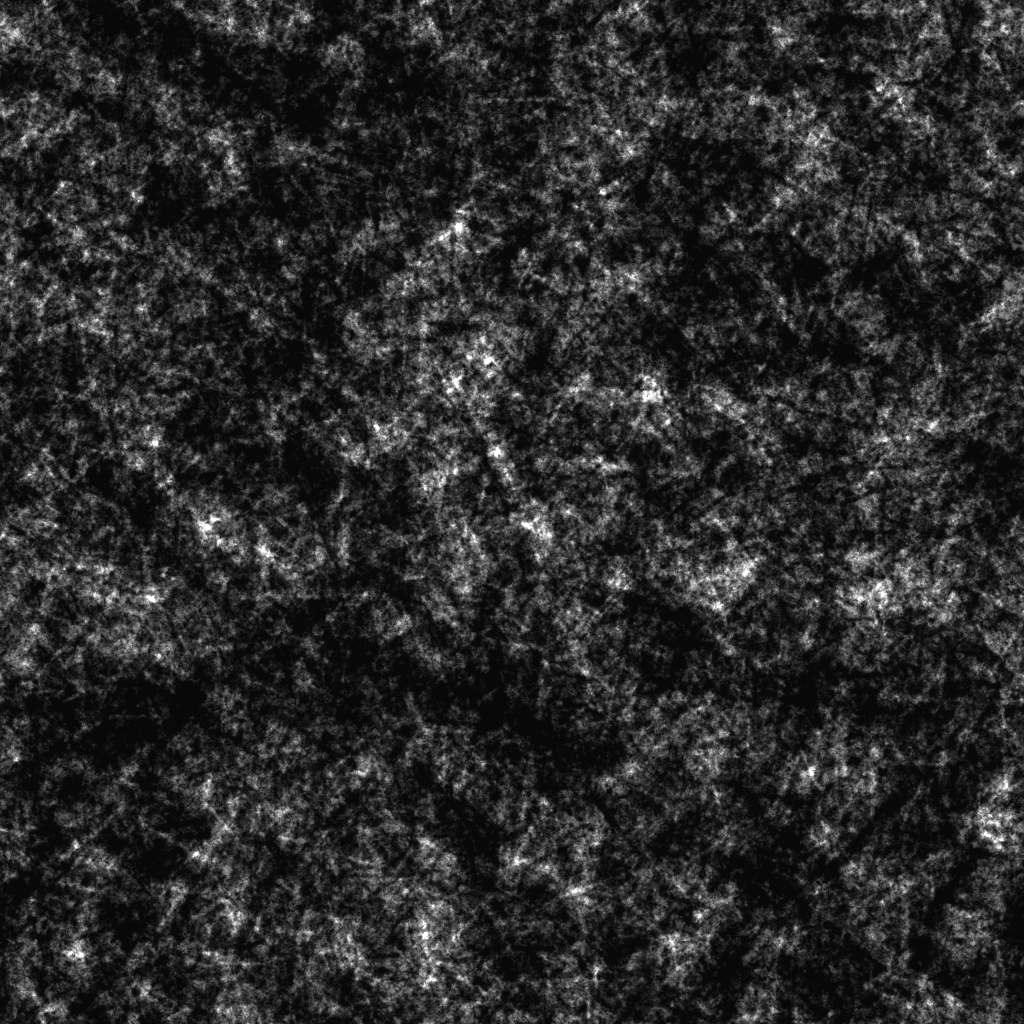
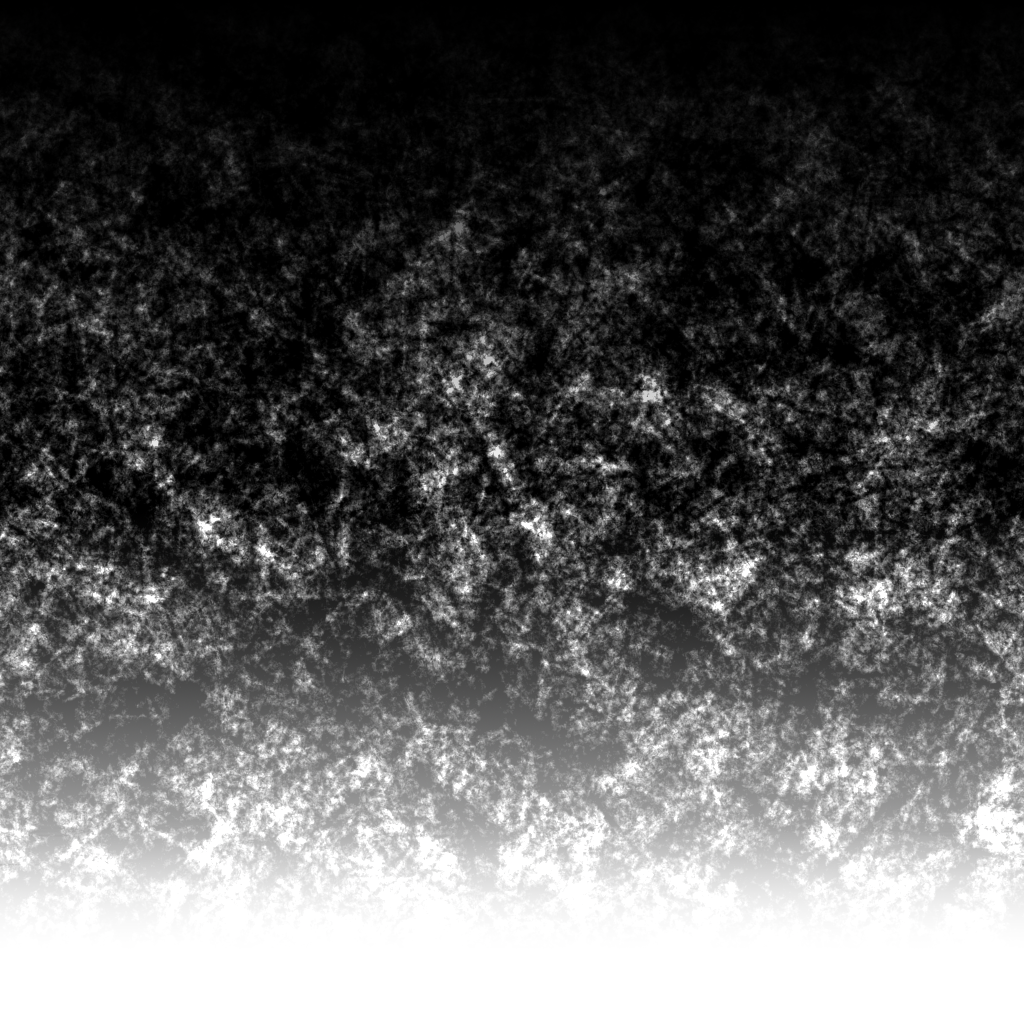
refine env example

diff --git a/source/environmentrenderingpass.ts b/source/environmentrenderingpass.ts
@@ -21,7 +21,7 @@ export class EnvironmentRenderingPass extends Initializable {
 
     protected _environmentTexture: Texture2D | TextureCube | undefined;
     protected _environmentTexture2: Texture2D | undefined;
-    protected _environmenTextureType: EnvironmentTextureType;
+    protected _envTextureType: EnvironmentTextureType;
     protected _camera: Camera | undefined;
 
     protected _cubeMapProgram: Program;
@@ -29,7 +29,13 @@ export class EnvironmentRenderingPass extends Initializable {
     protected _sphereMapProgram: Program;
     protected _polarMapProgram: Program;
 
+    protected _uSkipLod: WebGLUniformLocation;
+
     protected _ndcTriangle: NdcFillingTriangle;
+
+    protected _skipCubeLod = false;
+    protected _altered = true;
+
 
     constructor(context: Context) {
         super();
@@ -67,6 +73,9 @@ export class EnvironmentRenderingPass extends Initializable {
         this._cubeMapProgram.link();
         this._cubeMapProgram.bind();
         gl.uniform1i(this._cubeMapProgram.uniform('u_cubemap'), 0);
+
+        this._uSkipLod = this._cubeMapProgram.uniform('u_skipLod');
+
         this._cubeMapProgram.unbind();
 
         // Equi map program
@@ -121,6 +130,16 @@ export class EnvironmentRenderingPass extends Initializable {
 
     update(): void {
 
+        if (this._altered === false) {
+            return;
+        }
+
+        const gl = this._context.gl;
+
+        this._cubeMapProgram.bind();
+        gl.uniform1i(this._uSkipLod, this._skipCubeLod);
+
+        this._altered = false;
     }
 
     frame(): void {
@@ -132,19 +151,19 @@ export class EnvironmentRenderingPass extends Initializable {
 
         let program = this._cubeMapProgram;
 
-        if (this._environmenTextureType === EnvironmentTextureType.EquirectangularMap) {
+        if (this._envTextureType === EnvironmentTextureType.EquirectangularMap) {
             assert(this._environmentTexture instanceof Texture2D, `Input texture expected to be Texture2D for equirectangular mapping.`);
             this._environmentTexture!.bind(gl.TEXTURE0);
             program = this._equiMapProgram;
-        } else if (this._environmenTextureType === EnvironmentTextureType.SphereMap) {
+        } else if (this._envTextureType === EnvironmentTextureType.SphereMap) {
             assert(this._environmentTexture instanceof Texture2D, `Input texture expected to be Texture2D for sphere mapping.`);
             this._environmentTexture!.bind(gl.TEXTURE0);
             program = this._sphereMapProgram;
-        } else if (this._environmenTextureType === EnvironmentTextureType.CubeMap) {
+        } else if (this._envTextureType === EnvironmentTextureType.CubeMap) {
             assert(this._environmentTexture instanceof TextureCube, `Input texture expected to be a TextureCube for cube mapping.`);
             this._environmentTexture!.bind(gl.TEXTURE0);
             program = this._cubeMapProgram;
-        } else if (this._environmenTextureType === EnvironmentTextureType.PolarMap) {
+        } else if (this._envTextureType === EnvironmentTextureType.PolarMap) {
             assert(this._environmentTexture2 !== undefined, `Two input textures expected for polar mapping.`);
             assert(this._environmentTexture instanceof Texture2D, `Input texture expected to be a Texture2D for polar mapping.`);
             assert(this._environmentTexture2 instanceof Texture2D, `Input texture expected to be a Texture2D for polar mapping.`);
@@ -156,7 +175,6 @@ export class EnvironmentRenderingPass extends Initializable {
         program.bind();
 
         gl.uniformMatrix4fv(program.uniform('u_viewProjectionInverse'), false, this._camera!.viewProjectionInverse);
-        gl.disable(gl.DEPTH_TEST);
 
         this._ndcTriangle.bind();
         this._ndcTriangle.draw();
@@ -165,7 +183,7 @@ export class EnvironmentRenderingPass extends Initializable {
     }
 
     set environmentTextureType(type: EnvironmentTextureType) {
-        this._environmenTextureType = type;
+        this._envTextureType = type;
     }
 
     set environmentTexture(texture: Texture2D | TextureCube) {
@@ -178,6 +196,14 @@ export class EnvironmentRenderingPass extends Initializable {
 
     set camera(camera: Camera) {
         this._camera = camera;
+    }
+
+    set skipCubeLod(skip: boolean) {
+        if (this._skipCubeLod === skip) {
+            return;
+        }
+        this._skipCubeLod = skip;
+        this._altered = true;
     }
 
 }

diff --git a/examples/imagebasedlighting-example.ts b/examples/imagebasedlighting-example.ts
@@ -176,12 +176,13 @@ export class ImageBasedLightingRenderer extends Renderer {
         this._environmentRenderingPass.initialize();
         this._environmentRenderingPass.environmentTextureType = EnvironmentTextureType.CubeMap;
         this._environmentRenderingPass.environmentTexture = this._cubemap;
+        this._environmentRenderingPass.skipCubeLod = true;
         this._environmentRenderingPass.camera = this._camera;
 
         return true;
     }
 
-    /**
+    /**<
      * Uninitializes buffers, geometry and program.
      */
     protected onUninitialize(): void {
@@ -225,6 +226,8 @@ export class ImageBasedLightingRenderer extends Renderer {
             this._defaultFBO.clearColor(this._clearColor);
         }
 
+        this._environmentRenderingPass.update();
+
         this._altered.reset();
         this._camera.altered = false;
     }
@@ -241,7 +244,6 @@ export class ImageBasedLightingRenderer extends Renderer {
 
         gl.viewport(0, 0, this._frameSize[0], this._frameSize[1]);
 
-        this._environmentRenderingPass.frame();
 
         gl.enable(gl.CULL_FACE);
         gl.cullFace(gl.BACK);
@@ -273,6 +275,12 @@ export class ImageBasedLightingRenderer extends Renderer {
 
         gl.cullFace(gl.BACK);
         gl.disable(gl.CULL_FACE);
+
+        gl.enable(gl.DEPTH_TEST);
+
+        this._environmentRenderingPass.frame();
+
+
     }
 
     protected onSwap(): void { }
